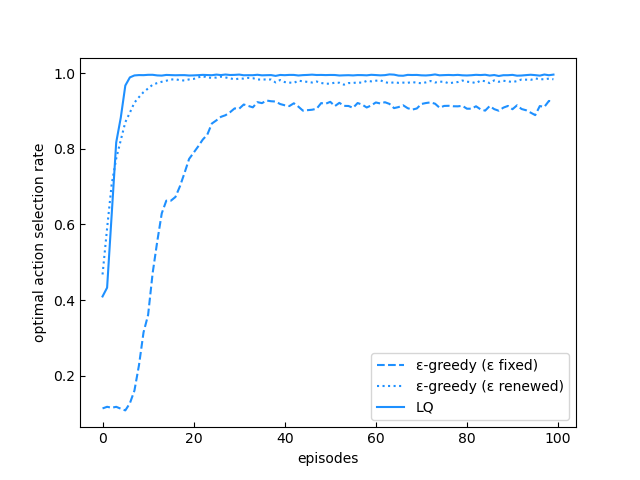
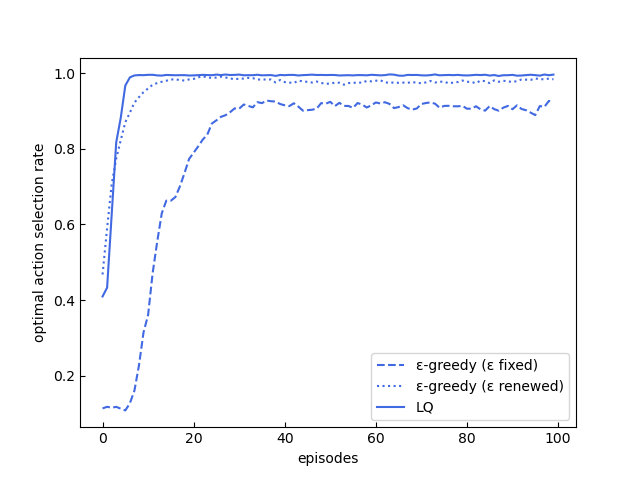
change graph color

diff --git a/Draw/draw_each_theta.py b/Draw/draw_each_theta.py
@@ -20,11 +20,11 @@ episodes_theta10 = np.load(fname_theta10)
 
 plt.rcParams['xtick.direction'] = 'in'
 plt.rcParams['ytick.direction'] = 'in'
-plt.plot(np.arange(0, episode_num), episodes_theta1, ls='-', label='θ = 1', color='dodgerblue')
-plt.plot(np.arange(0, episode_num), episodes_theta2, ls='--', label='θ = 2', color='dodgerblue')
-plt.plot(np.arange(0, episode_num), episodes_theta5, ls=':', label='θ = 5', color='dodgerblue')
-plt.plot(np.arange(0, episode_num), episodes_theta10, ls='-.', label='θ = 10', color='dodgerblue')
-#plt.plot(np.arange(0, step_num - 200), steps1[:300], color = 'dodgerblue')
+plt.plot(np.arange(0, episode_num), episodes_theta1, ls='-', label='θ = 1', color='royalblue')
+plt.plot(np.arange(0, episode_num), episodes_theta2, ls='--', label='θ = 2', color='royalblue')
+plt.plot(np.arange(0, episode_num), episodes_theta5, ls=':', label='θ = 5', color='royalblue')
+plt.plot(np.arange(0, episode_num), episodes_theta10, ls='-.', label='θ = 10', color='royalblue')
+#plt.plot(np.arange(0, step_num - 200), steps1[:300], color = 'royalblue')
 #plt.plot(np.arange(0, step_num - 200), steps2[:300], color = 'salmon')
 #plt.axhline(ave, ls = "-.", color = "slateblue")
 #plt.xlim(0, 100)

diff --git a/Draw/draw_each_method.py b/Draw/draw_each_method.py
@@ -20,10 +20,10 @@ episodes_softmax = np.load(fname_softmax)
 
 plt.rcParams['xtick.direction'] = 'in'
 plt.rcParams['ytick.direction'] = 'in'
-plt.plot(np.arange(0, episode_num), episodes_eps_fix, ls='--', label='ε-greedy (ε fixed)', color='dodgerblue')
-plt.plot(np.arange(0, episode_num), episodes_eps_ren, ls=':', label='ε-greedy (ε renewed)', color='dodgerblue')
-plt.plot(np.arange(0, episode_num), episodes_la, ls='-',label='LQ', color='dodgerblue')
-plt.plot(np.arange(0, episode_num), episodes_softmax, ls='-',label='softmax (T = 8.0)', color='salmon')
+plt.plot(np.arange(0, episode_num), episodes_eps_fix, ls='--', label='ε-greedy (ε fixed)', color='royalblue')
+plt.plot(np.arange(0, episode_num), episodes_eps_ren, ls=':', label='ε-greedy (ε renewed)', color='royalblue')
+plt.plot(np.arange(0, episode_num), episodes_la, ls='-',label='LQ', color='royalblue')
+plt.plot(np.arange(0, episode_num), episodes_softmax, ls='-',label='softmax (T = 8.0)', color='tomato')
 #plt.plot(np.arange(0, step_num - 200), steps1[:300], color = 'dodgerblue')
 #plt.plot(np.arange(0, step_num - 200), steps2[:300], color = 'salmon')
 #plt.axhline(ave, ls = "-.", color = "slateblue")
